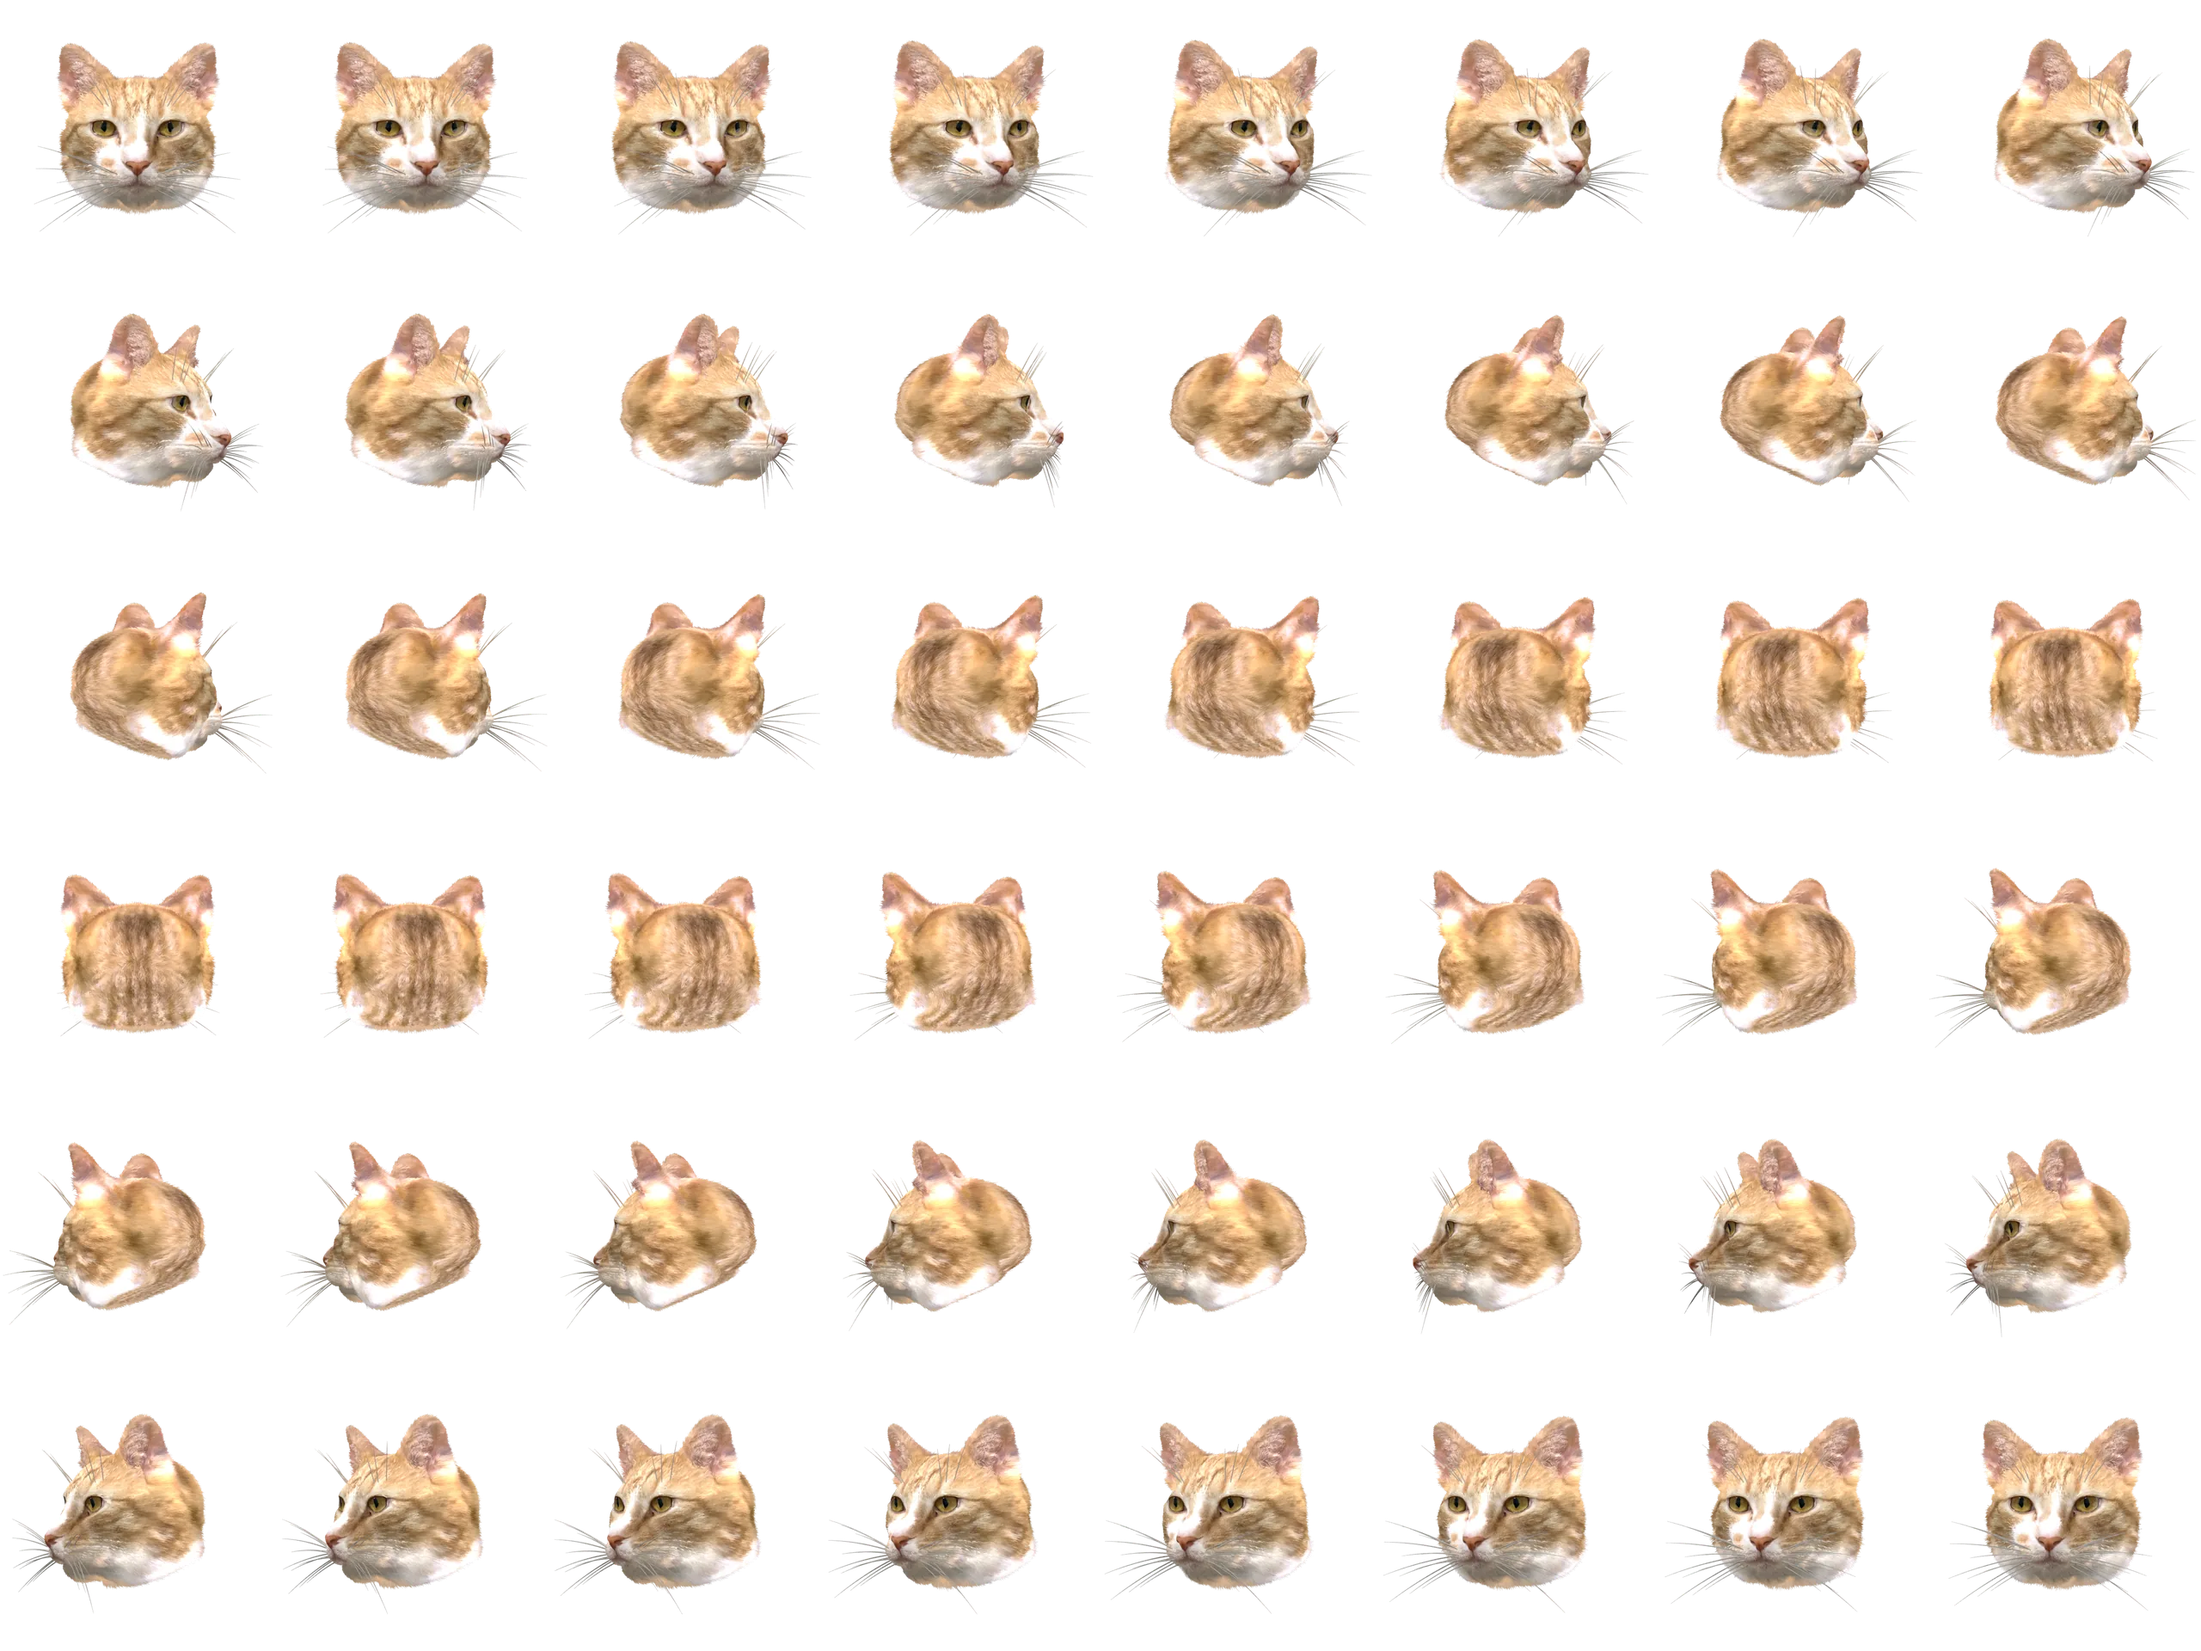
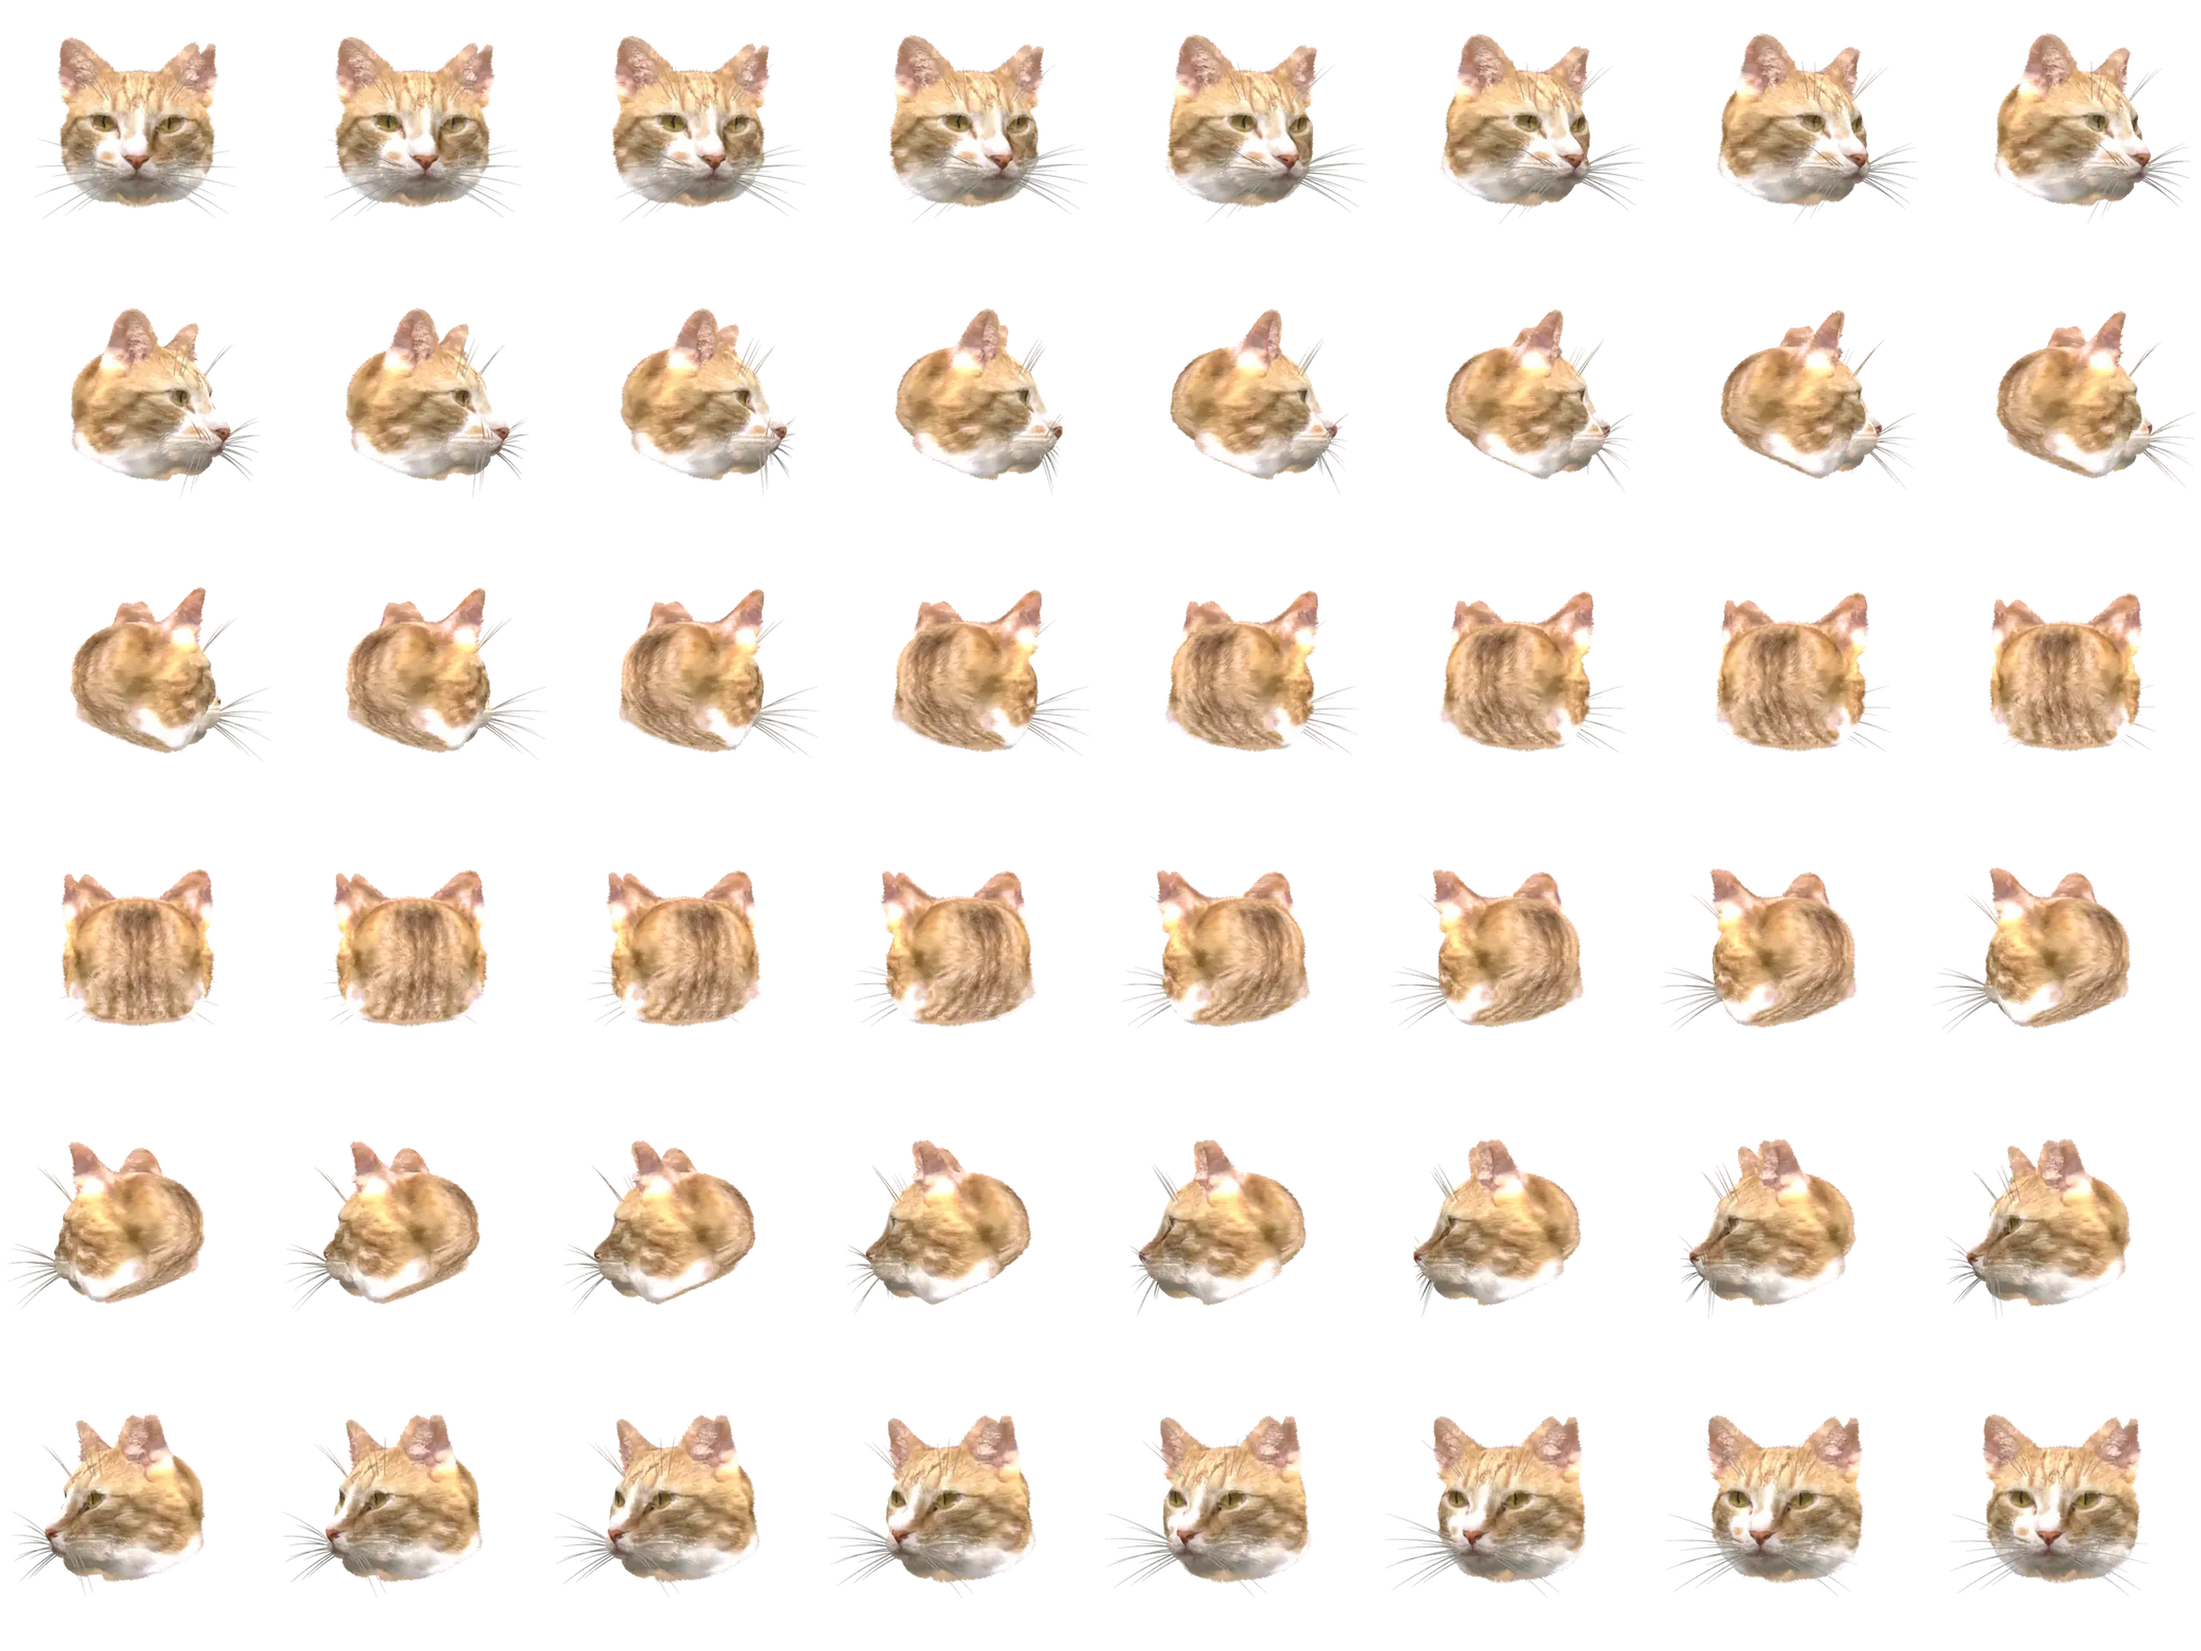
feat: ムギ3Dを筋肉・骨格ベースの30表情に（クリックで切り替え）
Claude-Session: https://claude.ai/code/session_01A1drDUvAmJd3EuZ7mCDjsY

diff --git a/src/mugi-expressions.ts b/src/mugi-expressions.ts
@@ -3,5 +3,34 @@
 export interface MugiExpression { id: string; label: string }
 export const MUGI_EXPRESSIONS: MugiExpression[] = [
   { id: 'neutral', label: 'ふつう' },
+  { id: 'smile', label: 'にっこり' },
+  { id: 'slowblink', label: 'ゆっくりまばたき' },
+  { id: 'purr', label: 'ごろごろ' },
+  { id: 'wink', label: 'ウインク' },
+  { id: 'happy', label: 'しあわせ' },
+  { id: 'surprise', label: 'びっくり' },
+  { id: 'stare', label: 'じーっ' },
+  { id: 'tilt', label: 'なになに？' },
+  { id: 'alert', label: '耳ピン' },
+  { id: 'hunt', label: '狩りモード' },
+  { id: 'sniff', label: 'くんくん' },
+  { id: 'sleepy', label: 'ねむい' },
+  { id: 'doze', label: 'うとうと' },
+  { id: 'yawn', label: 'あくび' },
+  { id: 'deepsleep', label: 'ぐっすり' },
+  { id: 'lick', label: 'ペロリ' },
+  { id: 'chew', label: 'もぐもぐ' },
+  { id: 'beg', label: 'おねだり' },
+  { id: 'lookup', label: 'ごはんまだ？' },
+  { id: 'flehmen', label: 'フレーメン' },
+  { id: 'grumpy', label: 'ムッ' },
+  { id: 'airplane', label: 'イカ耳' },
+  { id: 'hiss', label: 'シャー' },
+  { id: 'pout', label: 'ふくれっ面' },
+  { id: 'sulky', label: 'ぷい' },
+  { id: 'blep', label: '舌しまい忘れ' },
+  { id: 'smug', label: 'ドヤ顔' },
+  { id: 'oneear', label: '片耳だけ' },
+  { id: 'sneeze', label: 'くしゃみ前' },
 ];
 export const MUGI_SPRITE = { cols: 8, rows: 6, frames: 48, size: 320, fps: 14 };
